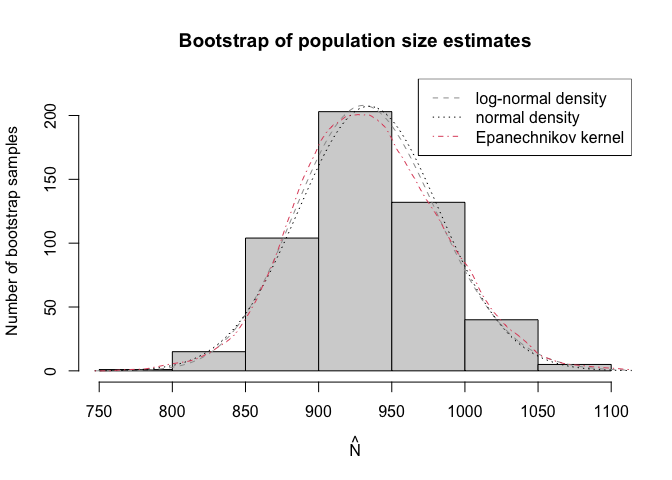
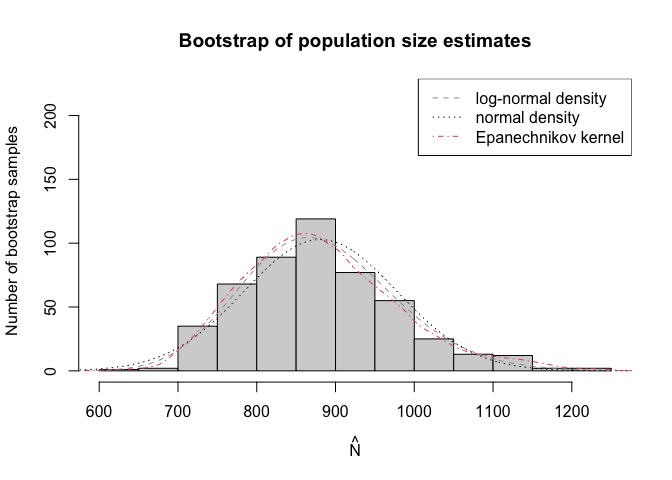
Fixed a bug that prevents fitting bootstrap samples with vglm models with more than 1 linear predictor.

diff --git a/README.md b/README.md
@@ -65,6 +65,8 @@ We also allow bootstrap methods:
 ``` r
 x <- rnorm(n = 1000)
 y <- rpois(n = 1000, lambda = exp(-1 + x))
+data <- data.frame(y = y, x = x)
+data <- data[data$y > 0, ]
 m1 <- vglm(y ~ x, data = data, family = pospoisson())
 singleRm1 <- estimatePopsize(m1, popVar = "bootstrap")
 summary(singleRm1)
@@ -74,18 +76,18 @@ summary(singleRm1)
 #> 
 #> -----------------------
 #> Population size estimation results: 
-#> Point estimate 933.535
-#> Observed proportion: 54.3% (N obs = 507)
-#> Boostrap sample skewness: 0.1734202
+#> Point estimate 874.9754
+#> Observed proportion: 40.7% (N obs = 356)
+#> Boostrap sample skewness: 0.6059152
 #> 0 skewness is expected for normally distributed variable
 #> ---
-#> Bootstrap Std. Error 48.13169
+#> Bootstrap Std. Error 97.00579
 #> 95% CI for the population size:
 #> lowerBound upperBound 
-#>   845.2718  1029.8236 
+#>   728.2672  1117.9471 
 #> 95% CI for the share of observed population:
 #> lowerBound upperBound 
-#>   49.23173   59.98071
+#>   31.84408   48.88316
 ```
 
 The `plots` method that is available for native `singleRcapture` object
@@ -104,13 +106,13 @@ Diagnostics from `singleRcapture` are also available:
 summary(marginalFreqVglm(singleRm1))
 #> Test for Goodness of fit of a regression model:
 #> 
-#>                  Test statistics df P(>X^2)
-#> Chi-squared test         3257.39  2       0
-#> G-test                   1635.35  2       0
+#>                  Test statistics df  P(>X^2)
+#> Chi-squared test         1792.40  6  0.0e+00
+#> G-test                    949.01  6 9.5e-202
 #> 
 #> -------------------------------------------------------------- 
 #> Cells with fitted frequencies of < 5 have been dropped 
-#> Names of cells used in calculating test(s) statistic: 1 2 3 4 5
+#> Names of cells used in calculating test(s) statistic: 1 2 3 4 5 6 7 8
 ```
 
 Utilising popular `countreg` package (compare with `singleRcapture`):
